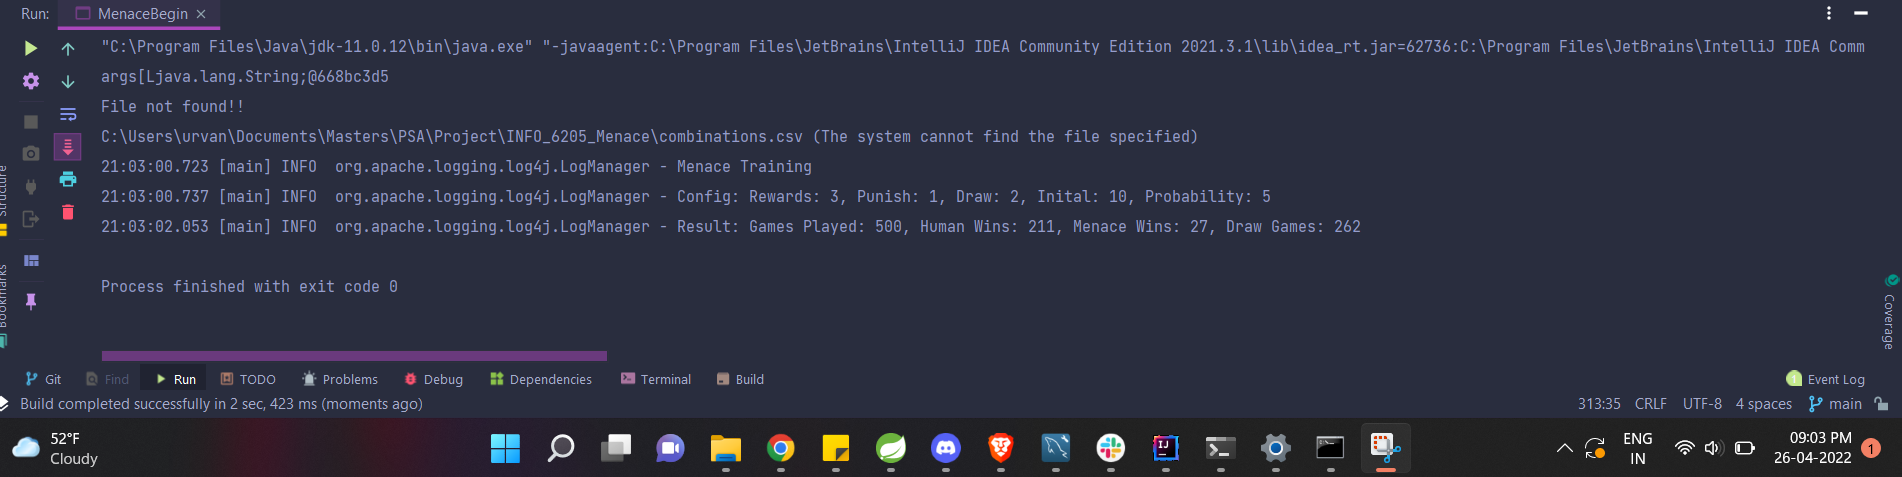
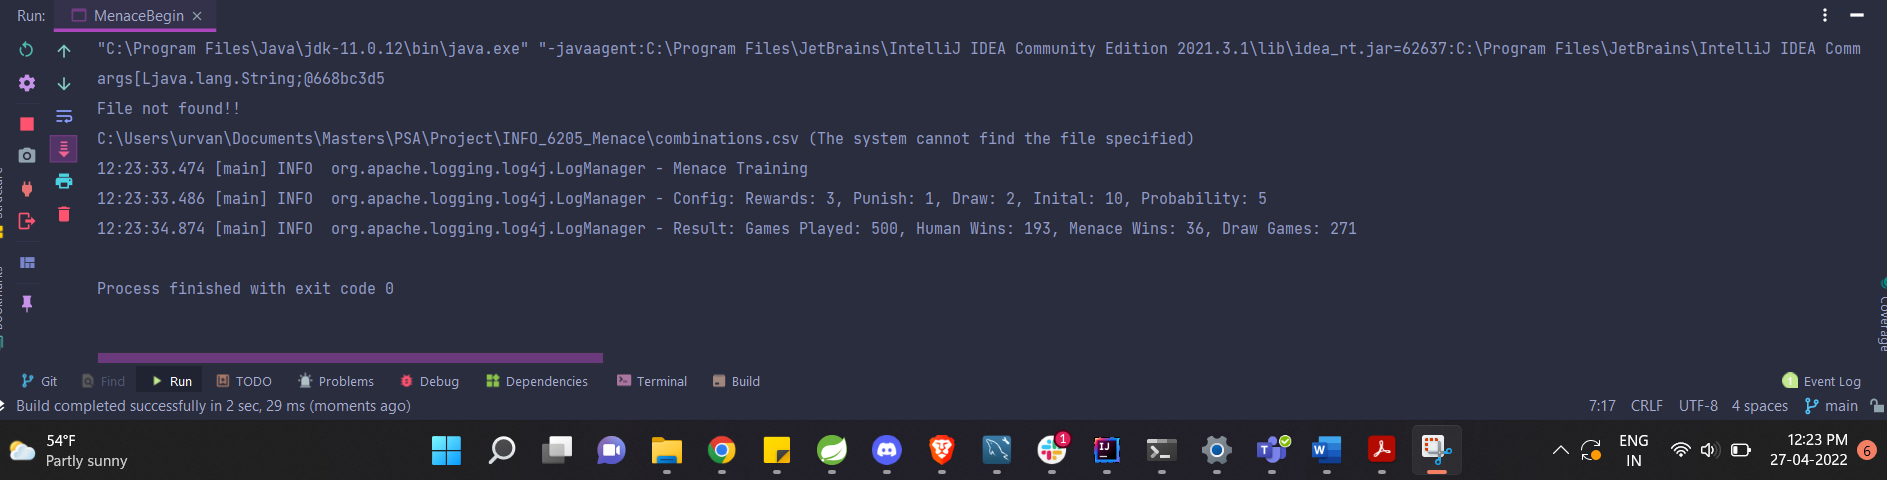
Modified reports

diff --git a/src/main/java/MenaceBegin.java b/src/main/java/MenaceBegin.java
@@ -49,7 +49,7 @@ public class MenaceBegin {
                     if (!baseInstance.getAllCombinations().containsKey(serial) && chance < 7) {
                         // validCombination - is the appropriate state
                         String validCombination = baseInstance.getValidCombination(serial);
-                        //logger.logMe("Board mirror found " + serial + "->" + validCombination);
+                        logger.logMe("Board mirror found " + serial + "->" + validCombination);
                         serial = validCombination;
                         // replace the board based on appropriate state
                         baseInstance.getNewConfigBoard(board, serial);
@@ -57,17 +57,14 @@ public class MenaceBegin {
                     // positionsToPlay - return an array with all valid positions allowed to play
                     List<Integer> positionsToPlay = baseInstance.getAllAvailablePositions(serial);
 
-                    int countPositions = 0;
                     int countBeads = 0;
                     for (int val : positionsToPlay) {
                         if (val > 0) {
-                            countPositions++;
                             countBeads += val;
                         }
-
                     }
 
-                    if (countPositions == 9) {
+                    if ("000000000".equals(serial)) {
                         //count
                         List<Integer> beads = new ArrayList<>();
                         beads.add(countBeads);
@@ -78,12 +75,12 @@ public class MenaceBegin {
                     int rand = Utils.pickRandomIndex(positionsToPlay, serial);
                     // moves - to keep a track on the game played
                     moves.put(serial, rand);
-                    //logger.logMe("Board state " + baseInstance.getSerialized2Dto1D(board));
-                    //logger.logMe("Menace played " + (int) Math.floor(rand / 3) + ", " + rand % 3);
+                    logger.logMe("Board state " + baseInstance.getSerialized2Dto1D(board));
+                    logger.logMe("Menace played " + (int) Math.floor(rand / 3) + ", " + rand % 3);
                     // mark the menace move on the board
                     board[(int) Math.floor(rand / 3)][rand % 3] = 1;
                 } else {
-                    //logger.logMe("Board state " + baseInstance.getSerialized2Dto1D(board));
+                    logger.logMe("Board state " + baseInstance.getSerialized2Dto1D(board));
 
                     if (isUser) {
                         for (int k = 0; k < 3; k++) {
@@ -114,7 +111,7 @@ public class MenaceBegin {
                         menaceWins++;
                         baseInstance.rewardSystem(moves, baseInstance.betaRewardWhenWin());
                     }
-                    //logger.logMe((turn ? isUser ? "User" : "Human: " : "Menace: ") + toCheckWin);
+                    logger.logMe((turn ? isUser ? "User" : "Human: " : "Menace: ") + toCheckWin);
                     break;
                 }
                 turn = !turn;
@@ -124,7 +121,7 @@ public class MenaceBegin {
             if (chance == 9) {
                 baseInstance.rewardSystem(moves, baseInstance.deltaRewardWhenDraw());
                 draw++;
-                //logger.logMe("Draw: " + baseInstance.getSerialized2Dto1D(board));
+                logger.logMe("Draw: " + baseInstance.getSerialized2Dto1D(board));
             }
 
             List<Object> winsLoss = new ArrayList<>();

diff --git a/src/main/java/BaseState.java b/src/main/java/BaseState.java
@@ -251,7 +251,8 @@ public class BaseState extends Utils {
         for (String s : path.keySet()) {
             List<Integer> beads = this.getAllAvailablePositions(s);
             int step = path.get(s);
-            beads.set(step, beads.get(step) + reward);
+            int newVal = beads.get(step) + reward;
+            beads.set(step, Math.max(newVal,0));
         }
     }
 
